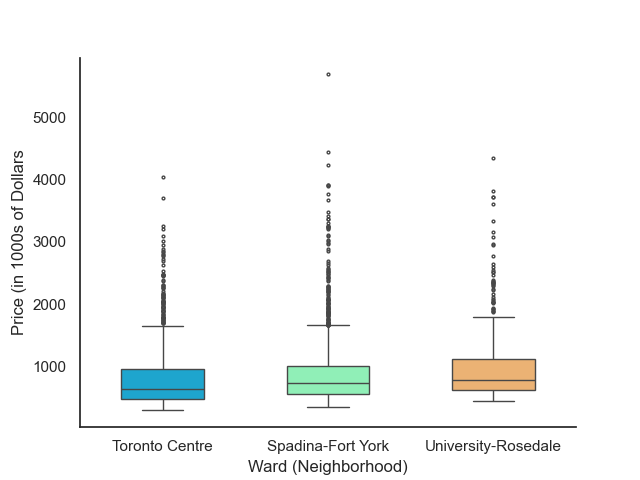
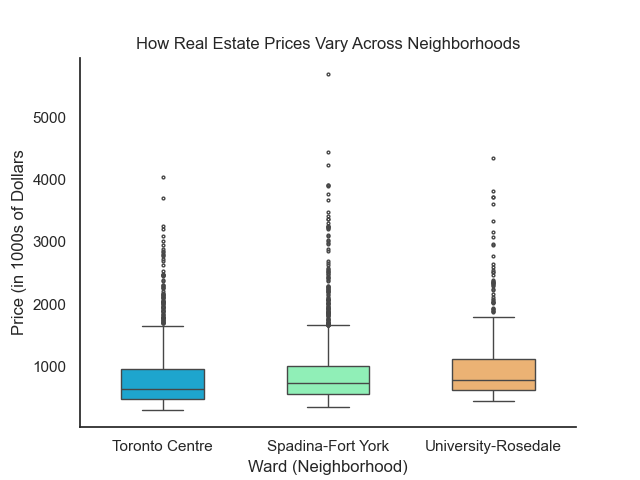
Updated EDA

Changed region(s): [[0.2188, 0.0625, 0.8125, 0.125]]

diff --git a/eda.py b/eda.py
@@ -26,19 +26,21 @@ def main():
     # sns.despine()
     #
     # plt.xlabel("Price (in 1000s of Dollars)")
+    # plt.title("Real Estate Prices")
     # plt.ylabel("Density")
     # plt.show()
 
     # 3. Compare Prices Across Wards
-    # sns.set_style("white")
-    # sns.set_context("notebook")
-    # sns.boxplot(data=df, x="ward", y="price (In 1000s)", width=0.5, fliersize=2, hue="ward", palette="rainbow", legend=False)
-    # sns.despine()
-    #
-    # plt.xticks(ticks=range(3), labels=["Toronto Centre", "Spadina-Fort York", "University-Rosedale"])
-    # plt.xlabel("Ward (Neighborhood)")
-    # plt.ylabel("Price (in 1000s of Dollars")
-    # plt.show()
+    sns.set_style("white")
+    sns.set_context("notebook")
+    sns.boxplot(data=df, x="ward", y="price (In 1000s)", width=0.5, fliersize=2, hue="ward", palette="rainbow", legend=False)
+    sns.despine()
+
+    plt.xticks(ticks=range(3), labels=["Toronto Centre", "Spadina-Fort York", "University-Rosedale"])
+    plt.title("How Real Estate Prices Vary Across Neighborhoods")
+    plt.xlabel("Ward (Neighborhood)")
+    plt.ylabel("Price (in 1000s of Dollars")
+    plt.show()
 
 
 if __name__ == "__main__":

diff --git a/Documentation.md b/Documentation.md
@@ -69,7 +69,7 @@ print(summary)
 From this information, it seems the average property has a list price of $894k. However, it is important to observe that the range of our data is $5,390k. This is an *incredible* amount of variation, especially with regards to the IQR of $461.25k. Looking at our minimum and maximum values, it seems like our data may be right-skewed. To confirm this, we have to take a look at the distribution graphically.
 
 <figure>
-    <img src="./price_disribution.png"/>
+    <img src="./price_density.png"/>
     <figcaption><strong>Fig. 1:</strong> Density histogram of price (in thousands of CAD).</figcaption>
 </figure>
 
